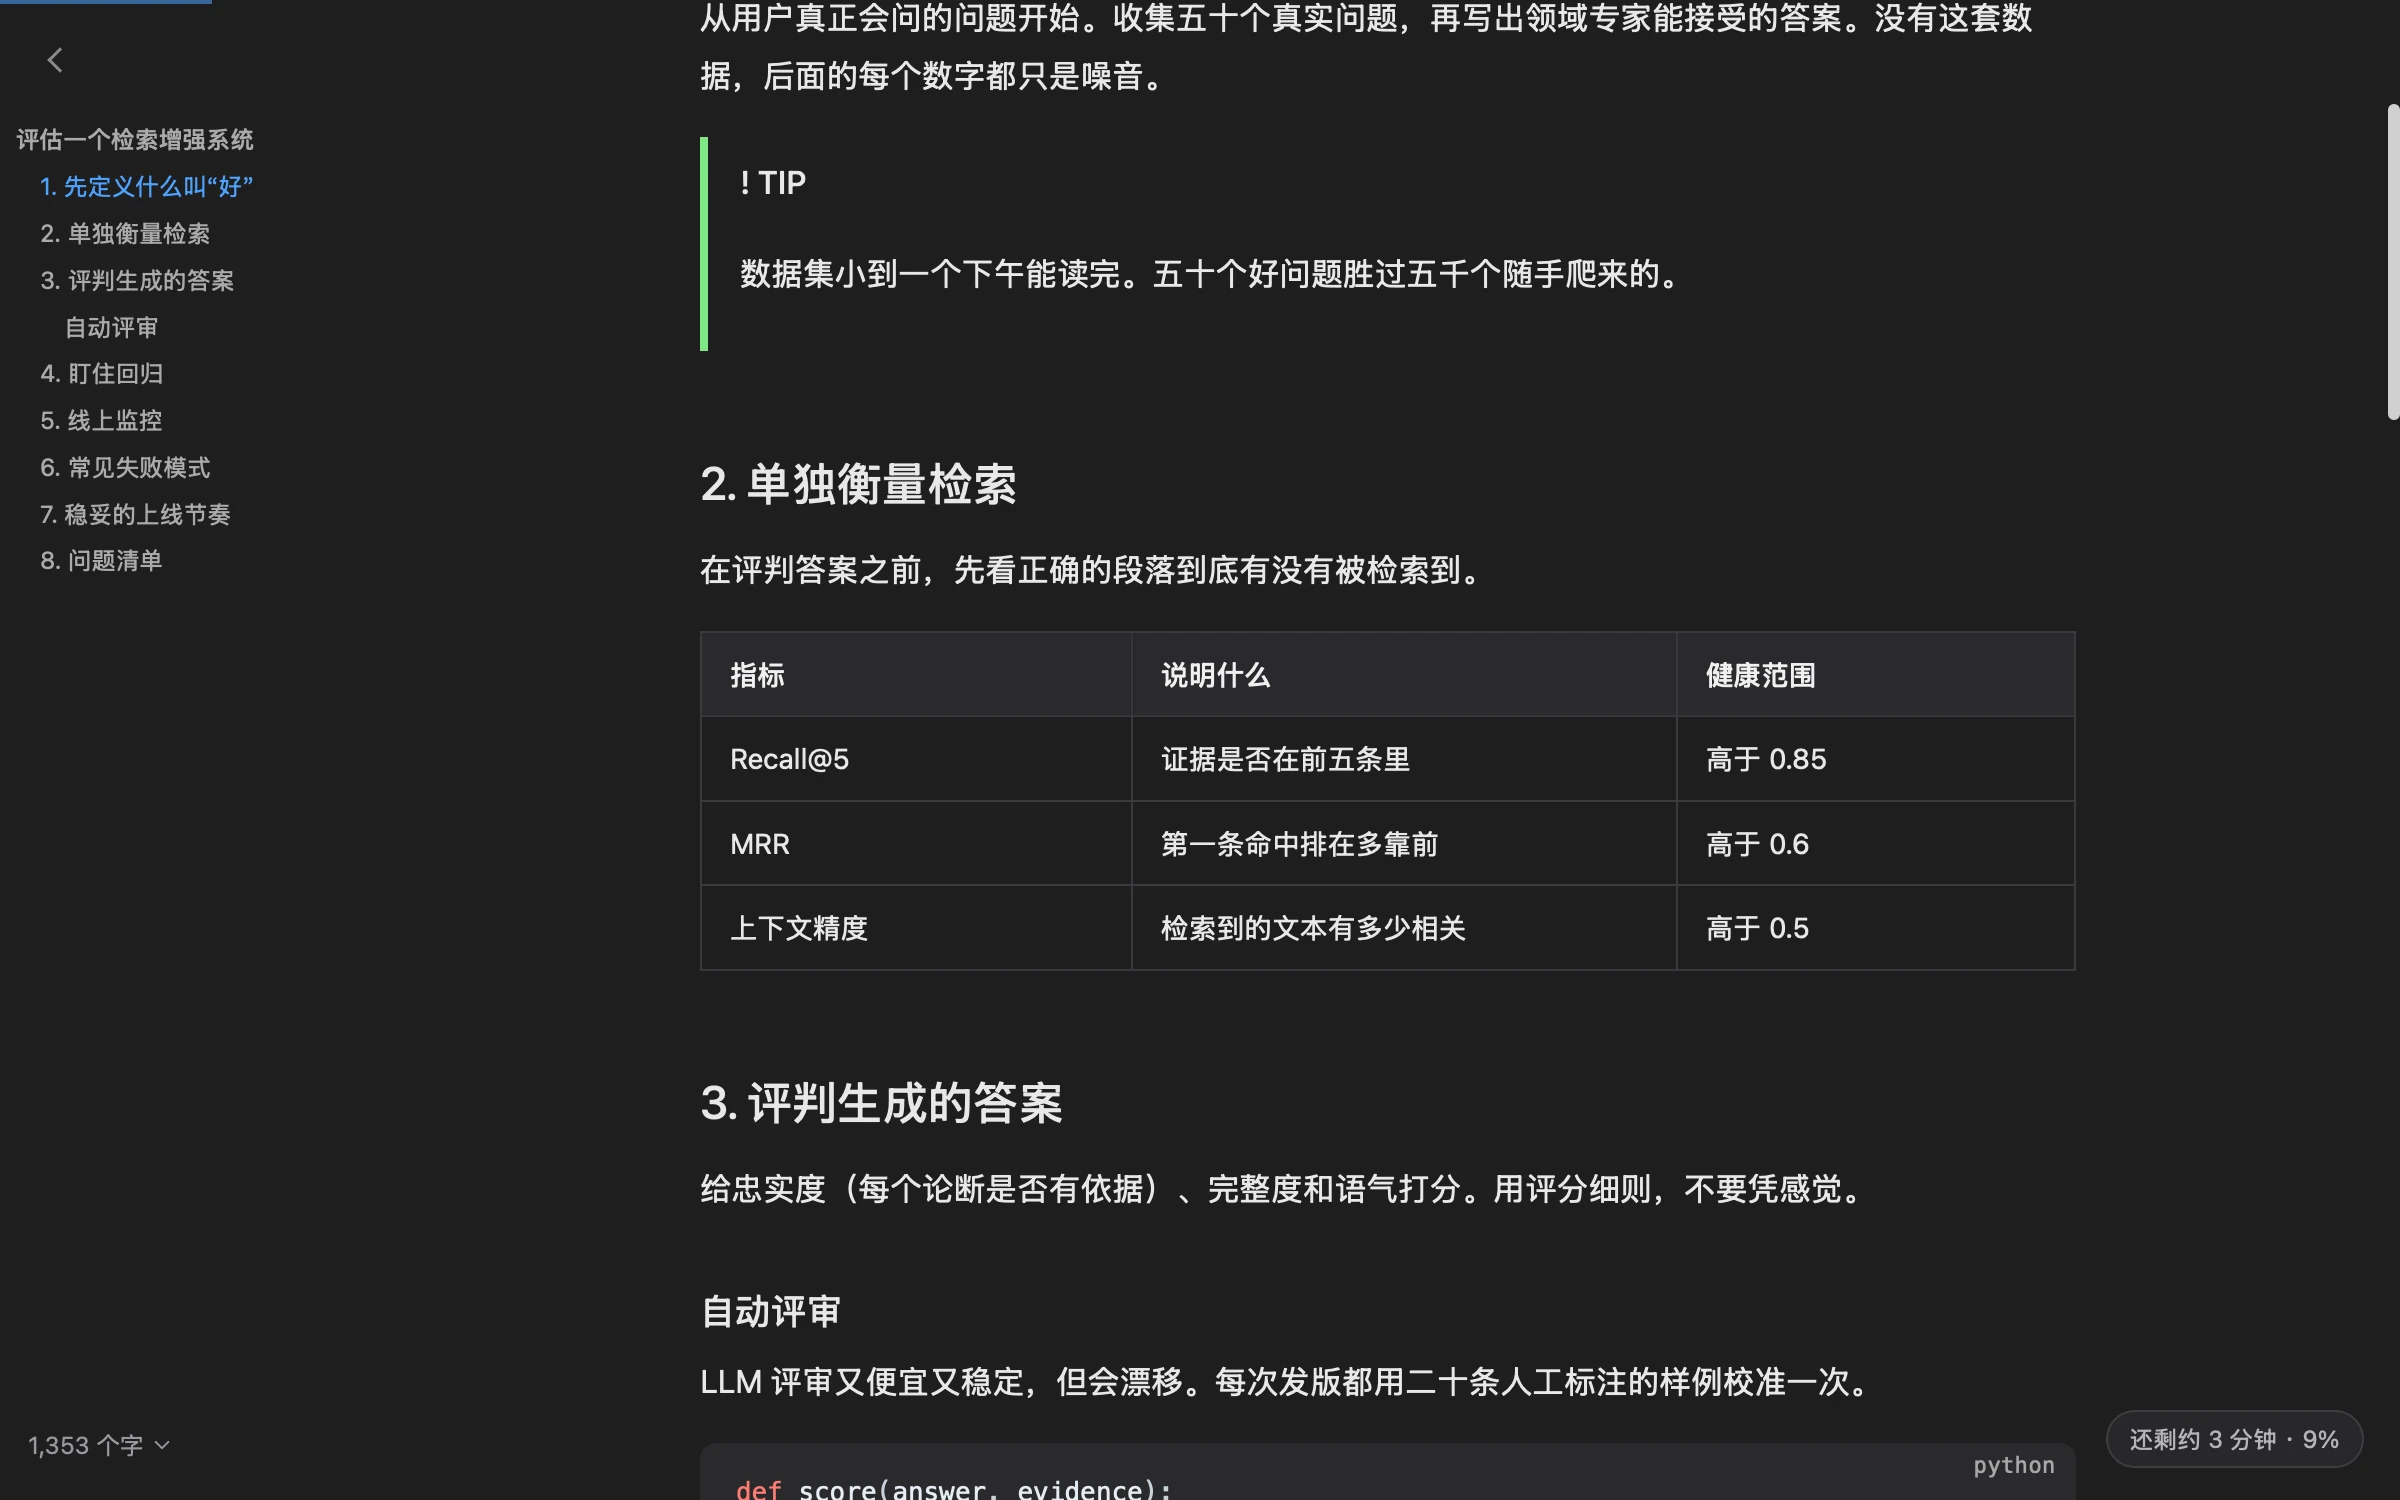
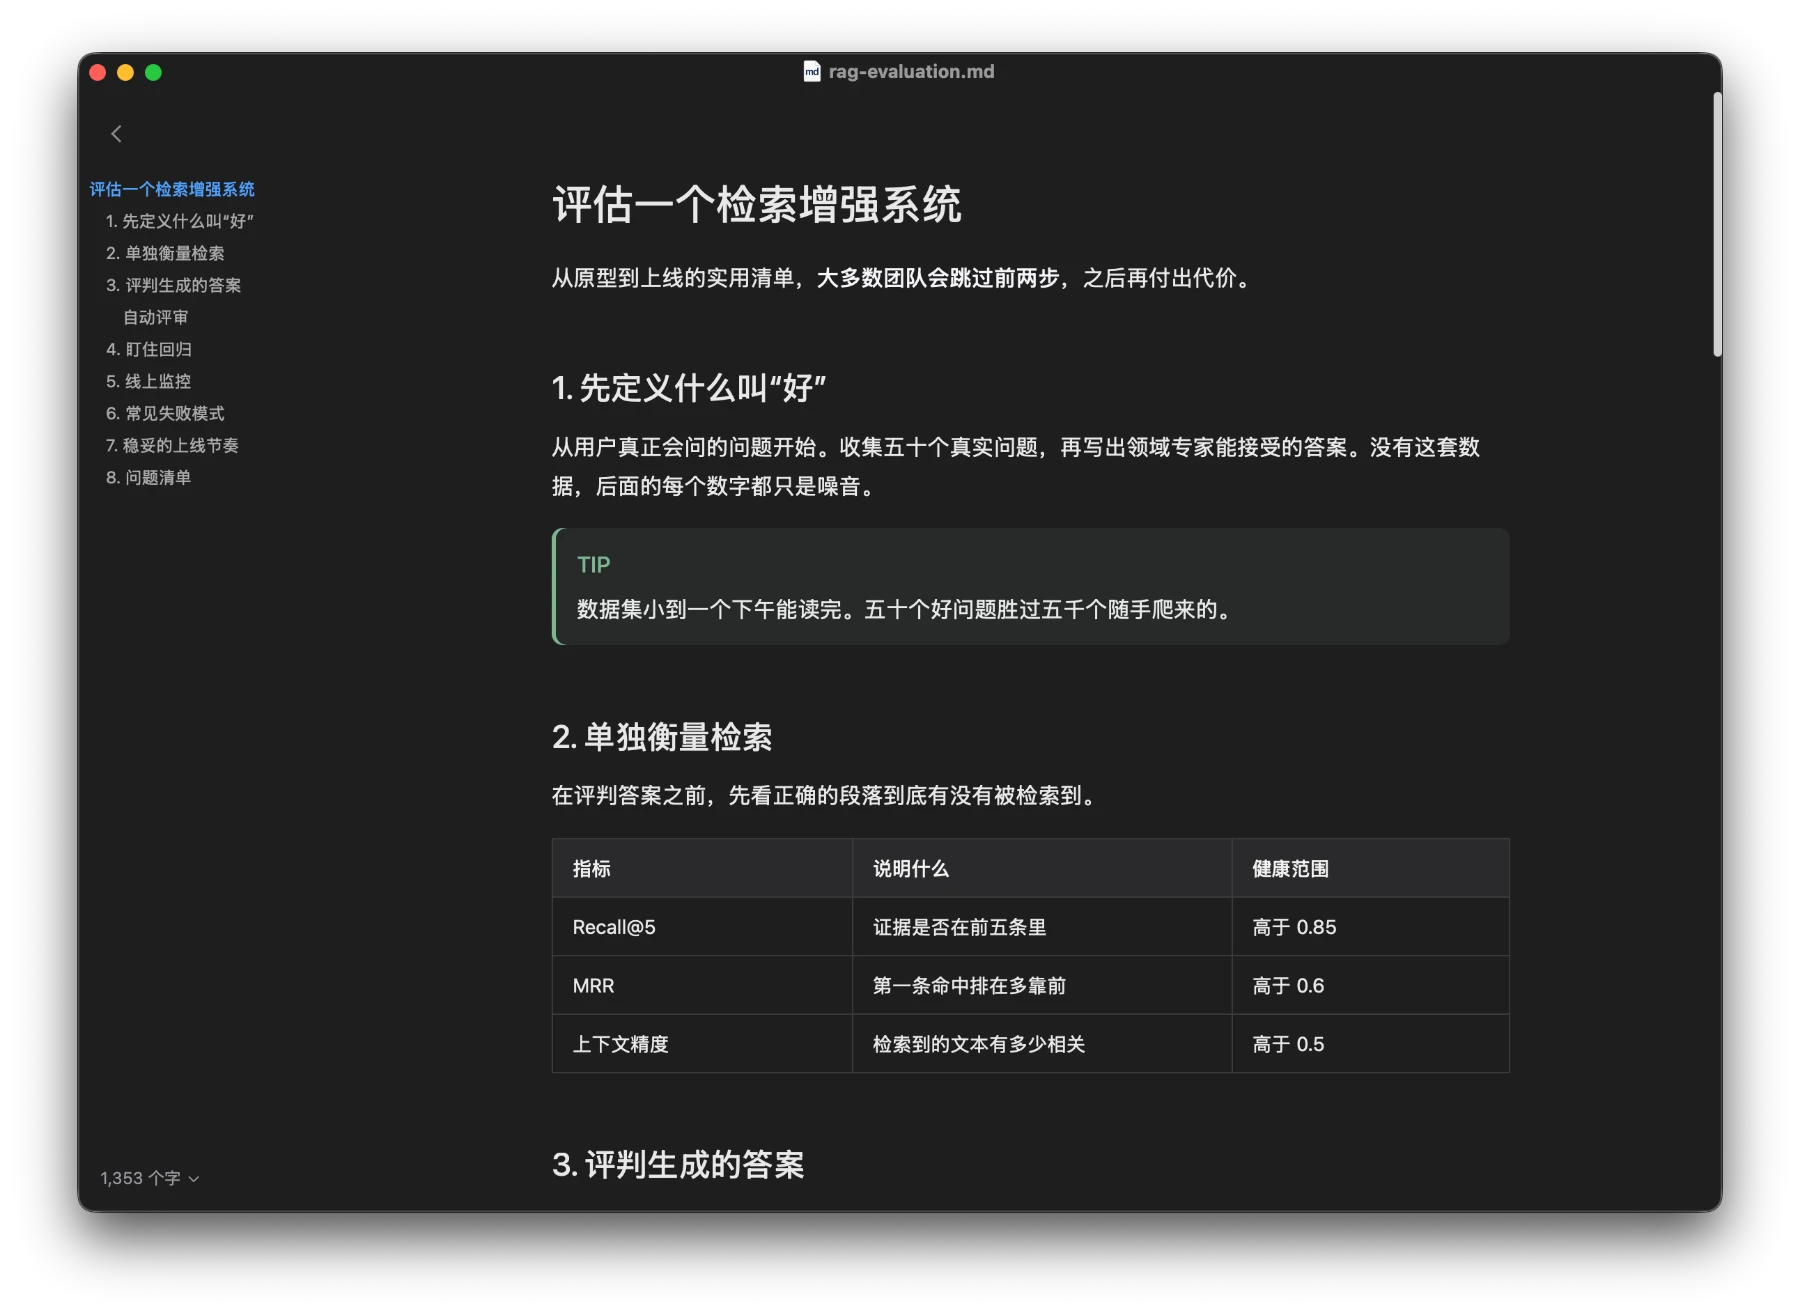
Release 2.0.1: window screenshots, cleaner README top, softer note blocks
- Version 2.0.1 (VERSION, Info.plist, package.json/lock) and CHANGELOG.
- README hero images are now the whole app window (English/Chinese,
  light/dark), captured from the built 2.0.1 app.
- README top: plain text links instead of badge buttons; status badges
  moved to the bottom; tagline stresses minimal and local, not free.

diff --git a/README.md b/README.md
@@ -4,27 +4,17 @@
 
 # mdPreview
 
-### The free Markdown viewer and editor for Mac.
-**Double-click a `.md` file. Read it as a clean page. Edit it like Word. Share it as PDF, Word or a web page.**
+### A minimal, local Markdown viewer and editor for Mac.
+**Double-click a `.md` file. Read it as a clean page. Edit it like Word. Share it as PDF, Word or a web page.** Nothing to set up, and your files never leave your Mac.
 
-[![Download for Mac](https://img.shields.io/badge/Download%20for%20Mac-free-0a64d8?style=for-the-badge&logo=apple&logoColor=white)](https://github.com/tahoeliu/mdPreview/releases/latest)
-[![Website](https://img.shields.io/badge/Website-tour%20%26%20screenshots-555?style=for-the-badge)](https://tahoeliu.github.io/mdPreview/)
-
-[![Latest release](https://img.shields.io/github/v/release/tahoeliu/mdPreview?label=release&color=0a64d8)](https://github.com/tahoeliu/mdPreview/releases/latest)
-[![Downloads](https://img.shields.io/github/downloads/tahoeliu/mdPreview/total?label=downloads&color=2ea44f)](https://github.com/tahoeliu/mdPreview/releases)
-[![macOS 13+](https://img.shields.io/badge/macOS-13%2B-black?logo=apple)](#install)
-[![Apple silicon and Intel](https://img.shields.io/badge/Apple%20silicon%20%2B%20Intel-supported-lightgrey)](#install)
-[![MIT licence](https://img.shields.io/github/license/tahoeliu/mdPreview?color=blue)](LICENSE)
-[![Stars](https://img.shields.io/github/stars/tahoeliu/mdPreview?style=flat&color=e3b341)](https://github.com/tahoeliu/mdPreview/stargazers)
-
-**English** · [简体中文](README.zh-CN.md) · [Website](https://tahoeliu.github.io/mdPreview/) · [Install](#install) · [FAQ](#frequently-asked-questions)
+**[Download for Mac](https://github.com/tahoeliu/mdPreview/releases/latest)** · [Website](https://tahoeliu.github.io/mdPreview/) · [Install](#install) · [FAQ](#frequently-asked-questions) · [简体中文](README.zh-CN.md)
 
 <br>
 
 <a href="https://tahoeliu.github.io/mdPreview/">
 <picture>
   <source media="(prefers-color-scheme: dark)" srcset="docs/images/hero-reading-dark.webp">
-  <img src="docs/images/hero-reading.webp" alt="mdPreview on Mac showing a long Markdown document as a clean page, with a section outline on the left, a tip box, a table, and a reading-time indicator" width="860">
+  <img src="docs/images/hero-reading.webp" alt="The mdPreview window on a Mac: a long Markdown document shown as a clean page, with a section outline on the left, a tip box and a table" width="860">
 </picture>
 </a>
 
@@ -41,7 +31,7 @@ You have a `.md` file. Maybe it is an answer from ChatGPT or Claude, a note, a R
 | 📖 **Reading that feels calm** | Proper headings, tables, task lists, maths, diagrams and callout boxes. A side outline, folding sections, and a quiet "3 min left" indicator for long documents. |
 | ✏ **Edit without learning Markdown** | Click into the page and a slim toolbar appears, like a word processor's. Bold, lists, links, tables. Your file stays clean Markdown underneath. |
 | 📤 **Share in the format people expect** | PDF with real page numbers, Word with real heading styles, one-file web pages, or rich text you can paste straight into Mail. |
-| 🔒 **Private, offline, free** | No account, no ads, no tracking. Your documents never leave your Mac. Open source under the MIT licence. |
+| 🔒 **Private and offline** | No account, no ads, no tracking. Your documents never leave your Mac. Open source under the MIT licence. |
 | 👀 **Press Space in Finder** | Preview any `.md` file without opening it (Quick Look is built in). |
 | 🌍 **Speaks your language** | English, 简体中文, 繁體中文, 日本語, 한국어, Deutsch, Français and Español. |
 
@@ -249,6 +239,8 @@ Project layout is in [CONTRIBUTING.md](.github/CONTRIBUTING.md) and the release 
 If mdPreview saves you a little time, a ⭐ helps other people find it.
 
 Made by [Tahoe Liu](https://github.com/tahoeliu) · [MIT licence](LICENSE)
+
+[![Latest release](https://img.shields.io/github/v/release/tahoeliu/mdPreview?label=release&color=0a64d8)](https://github.com/tahoeliu/mdPreview/releases/latest) [![Downloads](https://img.shields.io/github/downloads/tahoeliu/mdPreview/total?label=downloads&color=2ea44f)](https://github.com/tahoeliu/mdPreview/releases) [![macOS 13+](https://img.shields.io/badge/macOS-13%2B-black?logo=apple)](#install) [![Apple silicon and Intel](https://img.shields.io/badge/Apple%20silicon%20%2B%20Intel-supported-lightgrey)](#install) [![MIT licence](https://img.shields.io/github/license/tahoeliu/mdPreview?color=blue)](LICENSE) [![Stars](https://img.shields.io/github/stars/tahoeliu/mdPreview?style=flat&color=e3b341)](https://github.com/tahoeliu/mdPreview/stargazers)
 
 <sub>Markdown viewer for Mac · Markdown editor for macOS · open .md files on Mac · read ChatGPT and Claude answers · Markdown to PDF, Word and HTML · Typora and MacDown alternative · Mermaid and KaTeX · offline, open source</sub>
 

diff --git a/README.zh-CN.md b/README.zh-CN.md
@@ -4,27 +4,17 @@
 
 # mdPreview
 
-### Mac 上免费的 Markdown 阅读与编辑工具
-**双击 `.md` 文件，就是一页干净易读的文档。像 Word 一样直接修改，一键分享为 PDF、Word 或网页。**
+### Mac 上极简、纯本地的 Markdown 阅读与编辑工具
+**双击 `.md` 文件，就是一页干净易读的文档。像 Word 一样直接修改，一键分享为 PDF、Word 或网页。** 无需设置，文件始终留在你的 Mac 上。
 
-[![下载 Mac 版](https://img.shields.io/badge/下载%20Mac%20版-免费-0a64d8?style=for-the-badge&logo=apple&logoColor=white)](https://github.com/tahoeliu/mdPreview/releases/latest)
-[![官网](https://img.shields.io/badge/官网-导览与截图-555?style=for-the-badge)](https://tahoeliu.github.io/mdPreview/zh.html)
-
-[![最新版本](https://img.shields.io/github/v/release/tahoeliu/mdPreview?label=版本&color=0a64d8)](https://github.com/tahoeliu/mdPreview/releases/latest)
-[![下载量](https://img.shields.io/github/downloads/tahoeliu/mdPreview/total?label=下载&color=2ea44f)](https://github.com/tahoeliu/mdPreview/releases)
-[![macOS 13+](https://img.shields.io/badge/macOS-13%2B-black?logo=apple)](#安装)
-[![Apple 芯片和 Intel](https://img.shields.io/badge/Apple%20芯片%20%2B%20Intel-支持-lightgrey)](#安装)
-[![MIT 许可证](https://img.shields.io/github/license/tahoeliu/mdPreview?color=blue)](LICENSE)
-[![Stars](https://img.shields.io/github/stars/tahoeliu/mdPreview?style=flat&color=e3b341)](https://github.com/tahoeliu/mdPreview/stargazers)
-
-[English](README.md) · **简体中文** · [官网](https://tahoeliu.github.io/mdPreview/zh.html) · [安装](#安装) · [常见问题](#常见问题)
+**[下载 Mac 版](https://github.com/tahoeliu/mdPreview/releases/latest)** · [官网](https://tahoeliu.github.io/mdPreview/zh.html) · [安装](#安装) · [常见问题](#常见问题) · [English](README.md)
 
 <br>
 
 <a href="https://tahoeliu.github.io/mdPreview/zh.html">
 <picture>
   <source media="(prefers-color-scheme: dark)" srcset="docs/images/hero-reading-zh-dark.webp">
-  <img src="docs/images/hero-reading-zh.webp" alt="Mac 上的 mdPreview：左侧是文档大纲，右侧是排版好的长文档，含提示框、表格和剩余阅读时间" width="860">
+  <img src="docs/images/hero-reading-zh.webp" alt="Mac 上的 mdPreview 窗口：左侧是文档大纲，右侧是排版好的长文档，含提示框和表格" width="860">
 </picture>
 </a>
 
@@ -41,7 +31,7 @@
 | 📖 **读起来安静舒服** | 标题、表格、任务列表、公式、图表和提示框各归其位。有侧边大纲、可折叠章节，长文还会轻声告诉你“还剩 3 分钟”。 |
 | ✏ **不懂 Markdown 也能改** | 在页面里点一下，顶部出现像文字处理软件一样的工具条：加粗、列表、链接、表格。文件底层仍是干净的 Markdown。 |
 | 📤 **按对方习惯的格式分享** | 带页码的 PDF、带真正标题样式的 Word、单文件网页，或可直接粘贴进邮件的富文本。 |
-| 🔒 **私密、离线、免费** | 无需账号，没有广告，不追踪。文档不会离开你的 Mac。MIT 开源。 |
+| 🔒 **私密、离线** | 无需账号，没有广告，不追踪。文档不会离开你的 Mac。MIT 开源。 |
 | 👀 **在访达里按空格预览** | 不用打开就能预览 `.md` 文件（已内置 Quick Look）。 |
 | 🌍 **说你的语言** | 简体中文、繁體中文、English、日本語、한국어、Deutsch、Français、Español。 |
 
@@ -249,6 +239,8 @@ scripts/build.sh      # → WorkSpace/dist/release-<version>/mdPreview.app
 如果 mdPreview 帮你省了点时间，点个 ⭐ 能让更多人找到它。
 
 由 [Tahoe Liu](https://github.com/tahoeliu) 制作 · [MIT 许可证](LICENSE)
+
+[![最新版本](https://img.shields.io/github/v/release/tahoeliu/mdPreview?label=版本&color=0a64d8)](https://github.com/tahoeliu/mdPreview/releases/latest) [![下载量](https://img.shields.io/github/downloads/tahoeliu/mdPreview/total?label=下载&color=2ea44f)](https://github.com/tahoeliu/mdPreview/releases) [![macOS 13+](https://img.shields.io/badge/macOS-13%2B-black?logo=apple)](#安装) [![Apple 芯片和 Intel](https://img.shields.io/badge/Apple%20芯片%20%2B%20Intel-支持-lightgrey)](#安装) [![MIT 许可证](https://img.shields.io/github/license/tahoeliu/mdPreview?color=blue)](LICENSE) [![Stars](https://img.shields.io/github/stars/tahoeliu/mdPreview?style=flat&color=e3b341)](https://github.com/tahoeliu/mdPreview/stargazers)
 
 <sub>Mac Markdown 阅读器 · macOS Markdown 编辑器 · Mac 打开 md 文件 · 阅读 ChatGPT 和 Claude 回答 · Markdown 转 PDF、Word、网页 · Typora、MacDown 替代 · Mermaid 与 KaTeX · 离线开源</sub>
 

diff --git a/CHANGELOG.md b/CHANGELOG.md
@@ -2,10 +2,14 @@
 
 All notable changes to mdPreview. Format based on [Keep a Changelog](https://keepachangelog.com/); versions follow [Semantic Versioning](https://semver.org/).
 
-## [Unreleased]
+## [2.0.1] - 2026-11-09
+
+A small polish release: calmer note blocks, a better README and steadier automated checks. No change to how files are read, edited or exported.
 
 ### Changed
 - Notes, tips, important notes, warnings and cautions (`> [!NOTE]` and friends) are now softer on screen: muted colours, a lightly tinted rounded card with a thin accent bar, the title in the type colour, and even spacing above and below. Exports and print are unchanged.
+- The README and project website show the whole app window instead of a cropped page, and the README is rewritten in plain language, with `llms.txt` and `sitemap.xml` so the project is easier to find.
+- Automated checks are steadier on shared build machines (accessibility scan, speed budgets, retries); the window-based native check stays a local pre-release step.
 
 ## [2.0.0] - 2026-11-07
 
